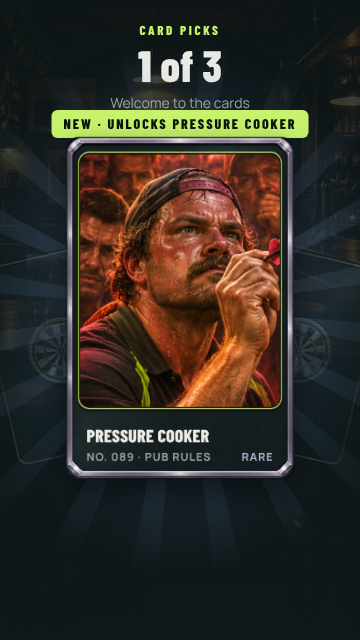
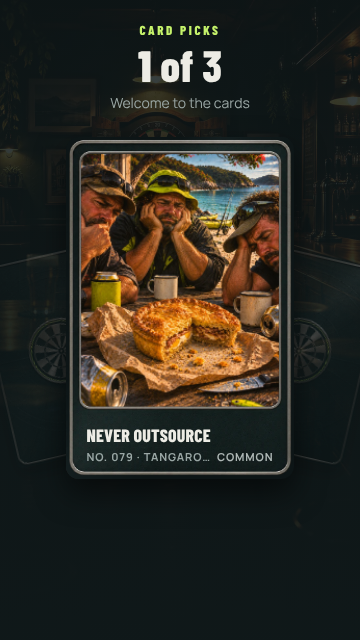
P6 send-back (QA 02:54): Collection/summary names wrap to two lines instead of an ellipsis (plate grows upward), long names >=12px, number/rarity may wrap at large text; tests add fallback-font, 340px and 125% text modes
Claude-Session: https://claude.ai/code/session_01WmQEKVsLutVo52VGmj2r97

Changed region(s): [[0.0, 0.1562, 0.9778, 0.8125]]

diff --git a/wip/scripts/p6binder.js b/wip/scripts/p6binder.js
@@ -6,7 +6,7 @@ const b=await chromium.launch({args:['--use-gl=swiftshader','--ignore-gpu-blockl
 const p=await b.newPage({viewport:{width:w,height:h},hasTouch:w<600,isMobile:w<600});await p.route(/jsdelivr|googleapis|gstatic|supabase\.co/,r=>r.abort());const pe=[];p.on('pageerror',e=>pe.push(e.message));
 await p.goto('file://'+dir+'/index.html');
 /* real fonts (Google Fonts is blocked here): local @fontsource copies, if present */
-try{const css=require('fs').readFileSync('/home/claude/fonts/fonts_local.css','utf8');await p.addStyleTag({content:css});}catch(e){}await p.waitForFunction(()=>window.TC_API&&typeof S!=='undefined',null,{timeout:180000});await p.waitForTimeout(1500);
+if(process.env.FONTS!=='fallback'){try{const css=require('fs').readFileSync('/home/claude/fonts/fonts_local.css','utf8');await p.addStyleTag({content:css});}catch(e){}}await p.waitForFunction(()=>window.TC_API&&typeof S!=='undefined',null,{timeout:180000});await p.waitForTimeout(1500);
 await p.evaluate(()=>{save.authSeen=true;save.name='Lee';save.matches=5;$('login').hidden=true;newCareer();save.tcIntro=Date.now();save.tcWelcomed=Date.now();
  const D=window.TC_DATA;const rar=c=>c.r||c.rarity||c[4],cid=c=>c.id||c[0];
  /* own one card of each rarity so the binder shows real cards (incl. the longest set names) */
@@ -17,10 +17,10 @@ await p.evaluate(()=>{save.authSeen=true;save.name='Lee';save.matches=5;$('login
  document.querySelectorAll('.tc-sheet').forEach(e=>e.remove());TC_API.binder();});
 await p.evaluate(()=>document.fonts.ready);await p.waitForTimeout(1200);
 r0=await p.evaluate(()=>document.fonts.check('800 16px "Barlow Condensed"'));
-const measure=()=>p.evaluate(()=>{const res=[];document.querySelectorAll('.tc-grid .tc:not(.is-locked) *, .tc-sets .tc:not(.is-locked) *').forEach(e=>{if(!e.childNodes.length)return;const ownTxt=[...e.childNodes].filter(n=>n.nodeType===3).map(n=>n.textContent).join('').trim();if(!ownTxt)return;const cs=getComputedStyle(e);if(cs.display==='none'||cs.visibility==='hidden')return;const r=e.getBoundingClientRect();if(!r.width)return;const fs=parseFloat(cs.fontSize);const pr=e.closest('.tc__plate');const pb=pr&&pr.getBoundingClientRect();const clip=(e.scrollWidth>e.clientWidth+1&&(cs.overflow!=='visible'||cs.textOverflow==='ellipsis'))||(pb&&(r.right>pb.right+1||r.left<pb.left-1))||(/tc__name/.test(e.className)&&e.scrollHeight>e.clientHeight+2);res.push({cls:String(e.className).slice(0,24),txt:ownTxt.slice(0,22),fs:+fs.toFixed(1),clip});});
+const measure=()=>p.evaluate((SC)=>{if(SC!==1){document.querySelectorAll('.tc-grid .tc *').forEach(e=>{const f=parseFloat(getComputedStyle(e).fontSize);e.style.fontSize=(f*SC)+'px';});}const res=[];document.querySelectorAll('.tc-grid .tc:not(.is-locked) *, .tc-sets .tc:not(.is-locked) *').forEach(e=>{if(!e.childNodes.length)return;const ownTxt=[...e.childNodes].filter(n=>n.nodeType===3).map(n=>n.textContent).join('').trim();if(!ownTxt)return;const cs=getComputedStyle(e);if(cs.display==='none'||cs.visibility==='hidden')return;const r=e.getBoundingClientRect();if(!r.width)return;const fs=parseFloat(cs.fontSize);const pr=e.closest('.tc__plate');const pb=pr&&pr.getBoundingClientRect();const clip=(e.scrollWidth>e.clientWidth+1&&(cs.overflow!=='visible'||cs.textOverflow==='ellipsis'))||(pb&&(r.right>pb.right+1||r.left<pb.left-1))||(/tc__name/.test(e.className)&&e.scrollHeight>e.clientHeight+2)||(()=>{const c=e.closest('.tc').getBoundingClientRect();return r.top<c.top+c.height*.62;})();res.push({cls:String(e.className).slice(0,24),txt:ownTxt.slice(0,22),fs:+fs.toFixed(1),clip});});
  let minClear=1e9,minWho='';document.querySelectorAll('.tc-grid .tc:not(.is-locked) .tc__rar').forEach(e=>{const pl=e.closest('.tc').getBoundingClientRect(),q=e.getBoundingClientRect();const rg=document.createRange();rg.selectNodeContents(e);const tr=rg.getBoundingClientRect();const c=pl.right-tr.right;if(c<minClear){minClear=c;minWho=e.textContent;}});
  const card=document.querySelector('.tc-grid .tc');return {minClear:+minClear.toFixed(1),minWho,cardW:card&&card.getBoundingClientRect().width|0,small:res.filter(x=>x.fs<11),clipped:res.filter(x=>x.clip),n:res.length};});
-const r=await measure();r.realFont=r0;
+const r=await measure(+(process.env.SCALE||1));r.mode=(process.env.FONTS||'real')+'@'+(process.env.SCALE||1);r.realFont=r0;
 await p.evaluate(()=>document.querySelectorAll('.tc-sheet *').forEach(e=>e.style.animation='none'));await p.screenshot({path:out+tag+'_binder.png',animations:'disabled'});
 await p.evaluate(()=>{const e=document.querySelector('.tc-grid .tc:not(.is-locked) .tc__name.is-xlong');if(e)e.closest('.tc').scrollIntoView({block:'center'});});await p.waitForTimeout(500);await p.screenshot({path:out+tag+'_long.png',animations:'disabled'});
 const uniq=a=>[...new Map(a.map(x=>[x.cls+'|'+x.fs,x])).values()];

diff --git a/wip/scripts/p6pack.js b/wip/scripts/p6pack.js
@@ -6,7 +6,7 @@ const out=require('path').resolve(__dirname,'../shots')+'/';
 const b=await chromium.launch({args:['--use-gl=swiftshader','--ignore-gpu-blocklist','--allow-file-access-from-files']});
 const p=await b.newPage({viewport:{width:w,height:h},hasTouch:w<600,isMobile:w<600});await p.route(/jsdelivr|googleapis|gstatic|supabase\.co/,r=>r.abort());const pe=[];p.on('pageerror',e=>pe.push(e.message));
 await p.goto('file://'+dir+'/index.html');
-try{await p.addStyleTag({content:require('fs').readFileSync('/home/claude/fonts/fonts_local.css','utf8')});}catch(e){}
+if(process.env.FONTS!=='fallback'){try{await p.addStyleTag({content:require('fs').readFileSync('/home/claude/fonts/fonts_local.css','utf8')});}catch(e){}}
 await p.waitForFunction(()=>window.TC_API&&typeof S!=='undefined',null,{timeout:180000});await p.waitForTimeout(1500);
 const clickSel=async sel=>{const q=await p.evaluate(s=>{const e=document.querySelector(s);if(!e)return null;const r=e.getBoundingClientRect();return {x:r.x+r.width/2,y:r.y+r.height/2};},sel);if(q){await p.mouse.click(q.x,q.y);return true;}return false;};
 const measure=(root)=>p.evaluate(root=>{const res=[];document.querySelectorAll(root+' *').forEach(e=>{const own=[...e.childNodes].filter(n=>n.nodeType===3).map(n=>n.textContent).join('').trim();if(!own)return;const cs=getComputedStyle(e);if(cs.display==='none'||cs.visibility==='hidden'||+cs.opacity===0)return;const r=e.getBoundingClientRect();if(!r.width||r.bottom<0||r.top>innerHeight||r.right<0||r.left>innerWidth)return;

diff --git a/tc/tc.css b/tc/tc.css
@@ -351,3 +351,11 @@ body.tc-oppwalk .ach-toasts{visibility:hidden}
 .tcpk__row[hidden]{display:none}
 .tcpk__summary .tc .tc__meta{font-size:max(11px,calc(var(--card-w)*.047));letter-spacing:.03em}
 .tcpk__summary .tc .tc__name.is-xlong{font-size:max(12px,calc(var(--card-w)*.066))}
+/* P6 send-back (QA 02:54): long names were cut to one line with an ellipsis wherever the font runs wider (font fallback,
+   other phones). On Collection and pack-summary cards a name may wrap to two lines instead; the plate grows upward. */
+.tc-grid .tc .tc__plate,.tc-sets .tc .tc__plate,.tcpk__summary .tc .tc__plate{top:auto;gap:.25em}
+.tc-grid .tc .tc__name,.tc-sets .tc .tc__name,.tcpk__summary .tc .tc__name{white-space:normal;text-overflow:clip;display:-webkit-box;-webkit-line-clamp:2;-webkit-box-orient:vertical;line-height:1.05;flex:none;padding-bottom:1px}
+.tc-grid .tc .tc__name.is-long,.tc-sets .tc .tc__name.is-long,.tcpk__summary .tc .tc__name.is-long{font-size:max(12px,calc(var(--card-w)*.078))}
+/* at large system text the number and rarity may not share a line: wrap instead of cutting the number */
+.tc-grid .tc .tc__meta,.tc-sets .tc .tc__meta,.tcpk__summary .tc .tc__meta{flex-wrap:wrap;column-gap:6px;row-gap:1px}
+.tc-grid .tc .tc__meta .tc__set,.tc-sets .tc .tc__meta .tc__set,.tcpk__summary .tc .tc__meta .tc__set{overflow:visible;text-overflow:clip}
